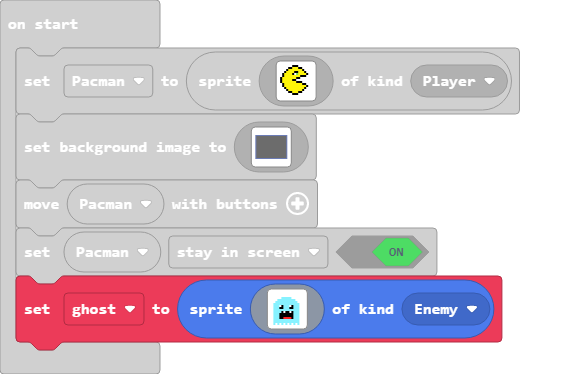
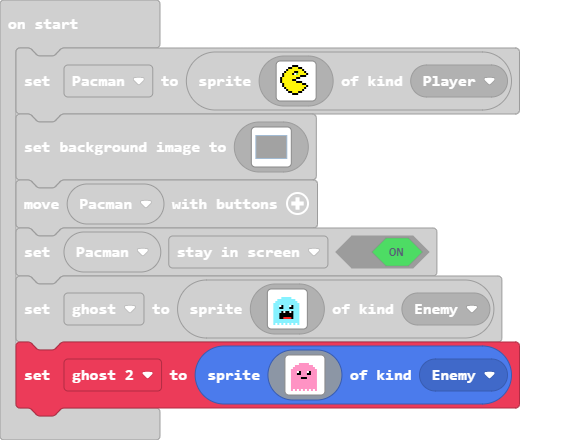
Update main.blocks, main.ts

Changed region(s): [[0.0, 0.0294, 0.9229, 0.9706], [0.0893, 0.2353, 0.1191, 0.2647]]

diff --git a/main.ts b/main.ts
@@ -158,3 +158,21 @@ let ghost = sprites.create(img`
     . 9 9 9 9 9 9 9 9 9 9 9 9 9 . . 
     . 9 . 9 . 9 . 9 . 9 . 9 . 9 . . 
     `, SpriteKind.Enemy)
+let ghost_2 = sprites.create(img`
+    . . . . . . . . . . . . . . . . 
+    . . . . . . . . . . . . . . . . 
+    . . . . . 3 3 3 3 3 . . . . . . 
+    . . . 3 3 3 3 3 3 3 3 3 . . . . 
+    . . 3 3 3 3 3 3 3 3 3 3 3 . . . 
+    . 3 3 3 3 3 3 3 3 3 3 3 3 3 . . 
+    . 3 3 3 1 f 3 3 3 1 f 3 3 3 . . 
+    . 3 3 3 f f 3 3 3 f f 3 3 3 . . 
+    . 3 3 3 3 3 3 3 3 3 3 3 3 3 . . 
+    . 3 3 3 3 3 f f f 3 3 3 3 3 . . 
+    . 3 3 3 3 3 3 3 3 3 3 3 3 3 . . 
+    . 3 3 3 3 3 3 3 3 3 3 3 3 3 . . 
+    . 3 3 3 3 3 3 3 3 3 3 3 3 3 . . 
+    . 3 3 3 3 3 3 3 3 3 3 3 3 3 . . 
+    . 3 3 3 3 3 3 3 3 3 3 3 3 3 . . 
+    . 3 . 3 . 3 . 3 . 3 . 3 . 3 . . 
+    `, SpriteKind.Enemy)
